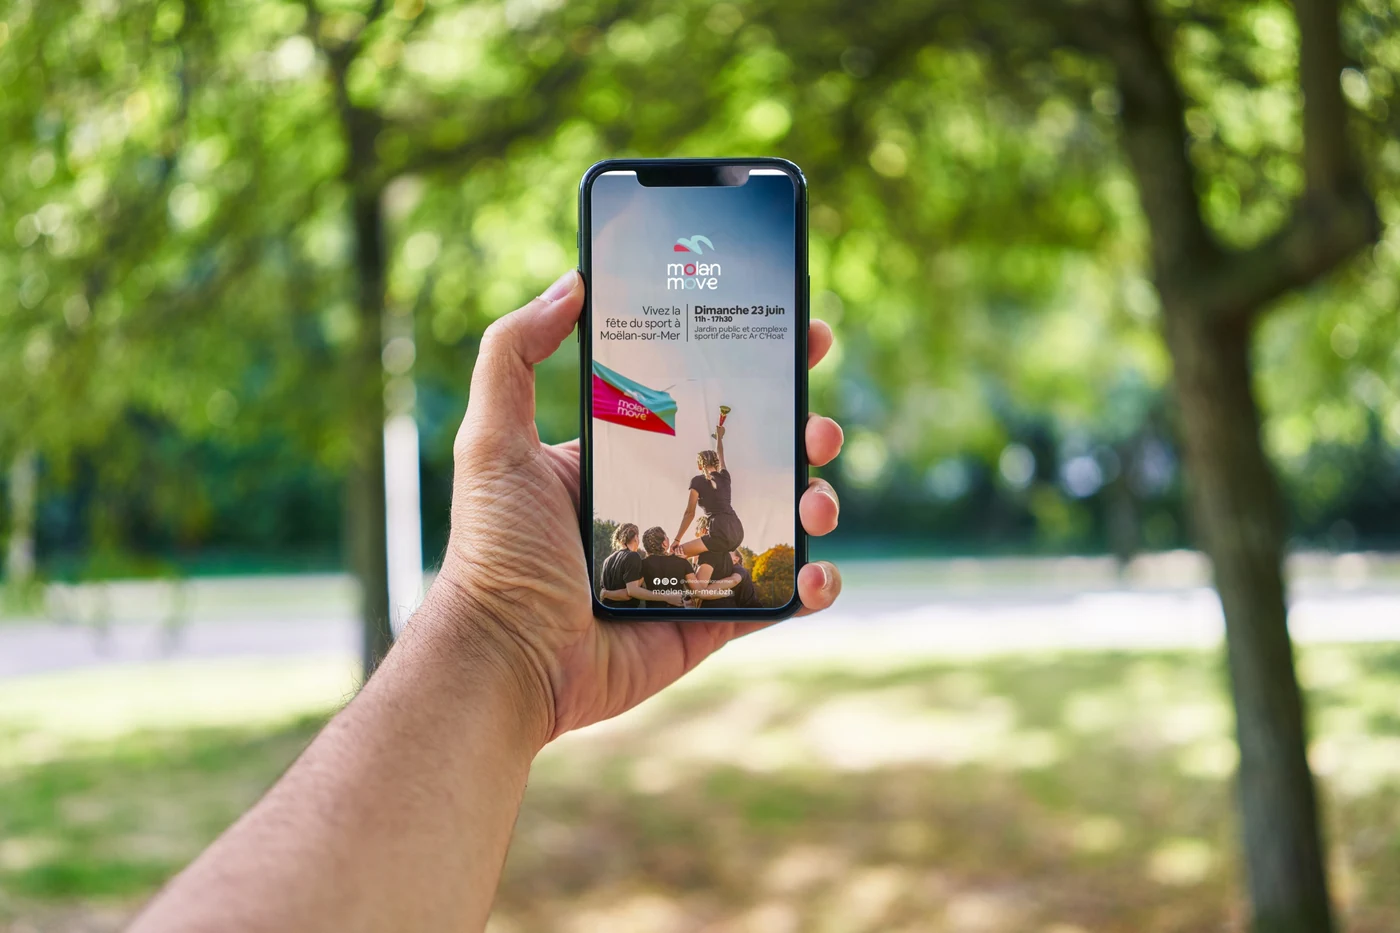
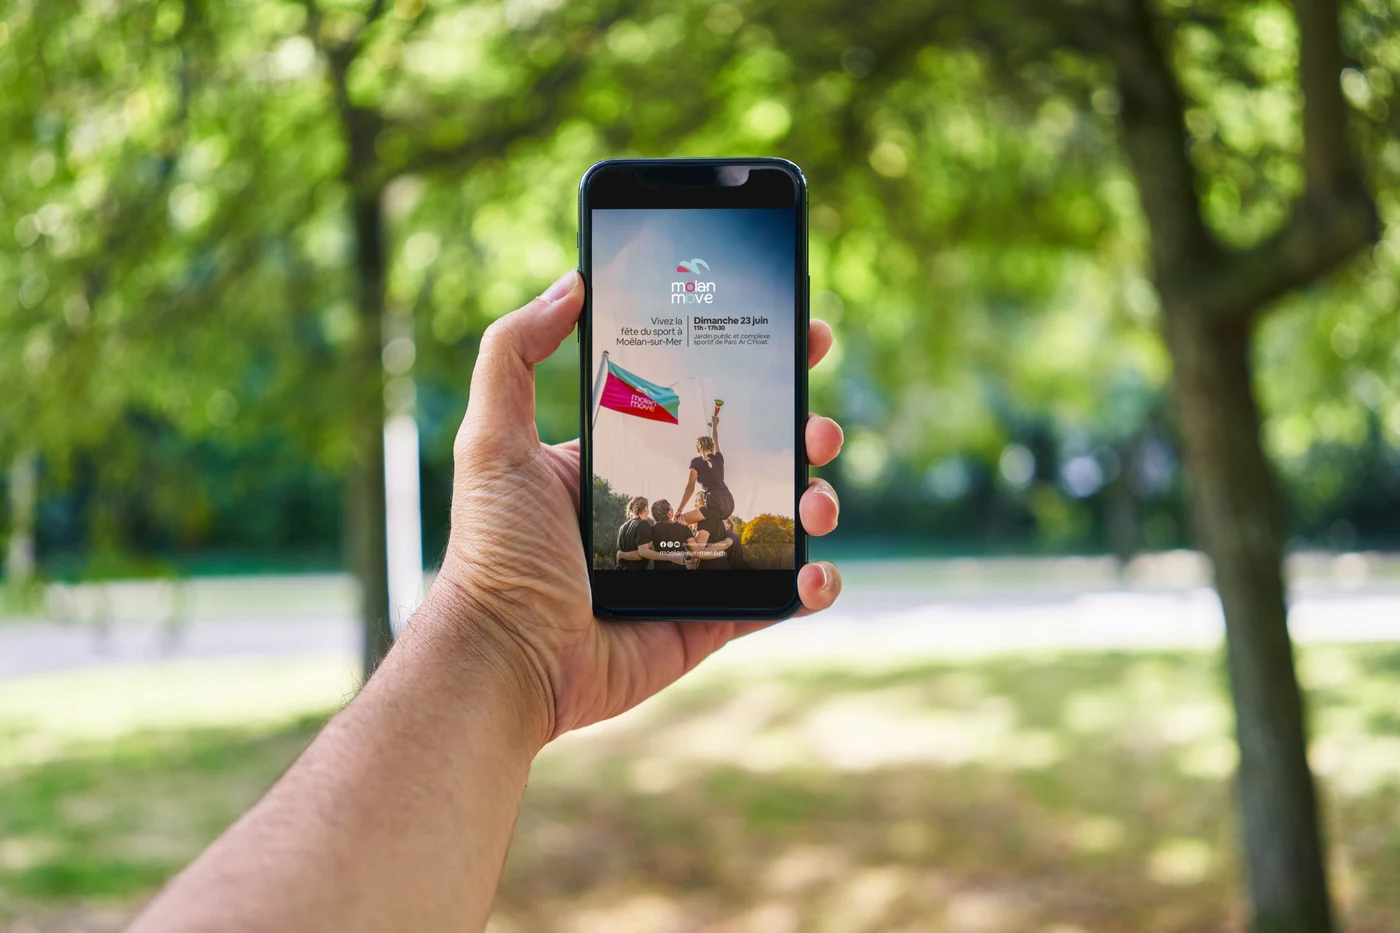
Molan Move : téléphone et dépliant refaits (écran ajusté, nouvelle photo de dépliant)
Claude-Session: https://claude.ai/code/session_01C8UkoL3kVVP4iky9bp2Zou

Changed region(s): [[0.3993, 0.1554, 0.5836, 0.6527], [0.5529, 0.4662, 0.5836, 0.4973]]

diff --git a/projets/molan-move/index.html b/projets/molan-move/index.html
@@ -419,7 +419,7 @@ ul.liv.lr li{width:clamp(230px,24vw,290px)}
   </div>
   <div class="gal" tabindex="0" role="region" aria-label="Galerie">
     <img data-r class="wide" src="img/m-affiche.webp" width="1400" height="1050" alt="L’affiche de Molan Move" loading="lazy">
-    <img data-r class="wide" src="img/m-depliant.webp" width="1400" height="933" alt="Le dépliant, extérieur et programme" loading="lazy">
+    <img data-r class="wide" src="img/m-depliant.webp" width="1400" height="933" alt="Le dépliant ouvert sur le programme" loading="lazy">
   </div>
 </section>
 <section class="ch" aria-labelledby="c4">

diff --git a/_src/mockups/molan-move/mmcomp.py b/_src/mockups/molan-move/mmcomp.py
@@ -10,9 +10,19 @@ if 'affiche' in w:
     p=paper(p,F+'a3.png',[(796,560),(1735,463),(1745,2032),(796,1984)],mask=bright(f,170,40),grain=False); save(p,'mm_affiche',O)
 if 'phone' in w:
     f=ST+'AdobeStock_553163834.jpeg'; p=load(f)
-    p=surface(p,F+'story.png',[(1445,428),(1945,428),(1945,1496),(1445,1496)],smooth=40,grain=0.05,clip=(0.97,1.03),mask=bright(f,200,30)); save(p,'mm_phone',O)
+    im=cv2.imread(f); g=cv2.cvtColor(im,cv2.COLOR_BGR2GRAY); m=(g>200).astype(np.uint8); m[:, :1300]=0; m[:, 2100:]=0
+    n,lab,st,_=cv2.connectedComponentsWithStats(m); big=1+np.argmax(st[1:,4]); mk=(lab==big).astype(np.uint8)
+    mk=cv2.morphologyEx(mk,cv2.MORPH_CLOSE,np.ones((5,5),np.uint8)); mk=cv2.dilate(mk,np.ones((3,3),np.uint8))
+    mk=cv2.GaussianBlur(mk.astype(np.float32),(0,0),0.8)[...,None]
+    rgb,a=warp(flat(F+'screen.png'),[(1446,413),(1941,411),(1941,1490),(1448,1490)],p.shape)
+    rgb=rgb*0.97+0.015
+    p=p*(1-mk)+rgb*mk; save(p,'mm_phone',O)
 if 'depliant' in w:
-    f=ST+'AdobeStock_937522065.jpeg'; p=load(f); mk=bright(f,175,25)
+    f=ST+'AdobeStock_1884178682.jpeg'; p=load(f); mk=bright(f,150,25)
+    k=4.276; P=lambda *pts:[(x*k,y*k) for x,y in pts]
+    p=paper(p,F+'dep_l.png',P((150,152),(372,123),(412,433),(190,462)),mask=mk,grain=False)
+    p=paper(p,F+'dep_r.png',P((372,123),(594,93),(633,400),(412,433)),mask=mk,grain=False); save(p,'mm_depliant',O)
+if False:
     p=paper(p,F+'dep_l.png',[(1811,1418),(2700,1406),(2700,2576),(1778,2543)],mask=mk,grain=False)
     k=5.625; P=lambda *pts:[(x*k,y*k) for x,y in pts]
     p=paper(p,F+'dep1_l.png',P((100,252),(205,138),(357,263),(252,383)),mask=mk,grain=False)
